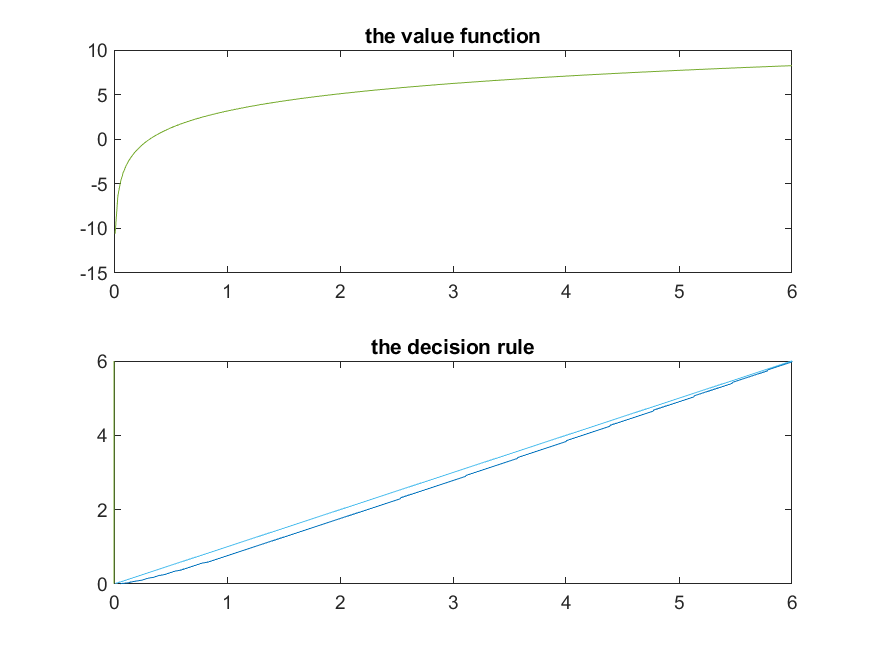
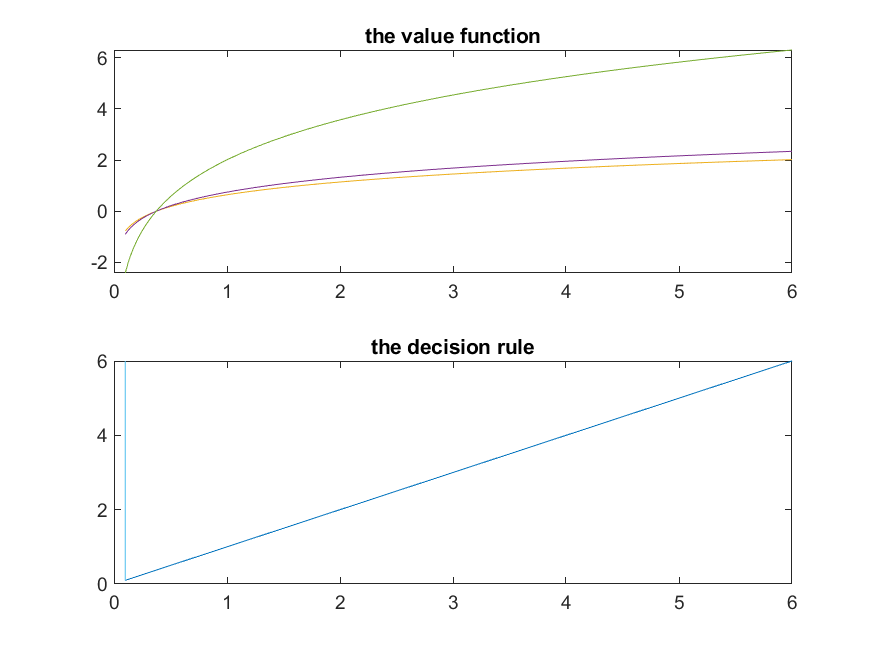
Changes to homework 2

diff --git a/Code/Kai/Homework 2/Kai_Jensen_HW2_Q3.m b/Code/Kai/Homework 2/Kai_Jensen_HW2_Q3.m
@@ -1,15 +1,27 @@
-close; clear all; clc;
-%Initial parameter values
-Mu=0;
-rho=0.909;
-s=2.575; %amount of normal distribution covered
-sample_size=100;
-sigma=2;
-sigma_e=0.014;
-znum=9;
-%markov
-[zgrid,piz]=tauchen(rho,sigma_e,znum,Mu,s); 
-zgrid=exp(zgrid);
+clear; close all; clc; 
+alpha = .36;
+d = .069;
+beta = .96;
+sigma = 2;
+A = 1;
+Kl = .01; 
+Kh = 6; 
+Knum = 250; 
+Kgrid = linspace(Kl, Kh, Knum); 
+rho = .859;
+sigma_e = .014;
+Nz = 5;
+mu = 0;
+s = 2.575;
+[zgrid, piz] = tauchen(rho, sigma_e, Nz, mu, s); 
+zgrid = exp(zgrid);
+Tv = zeros(Knum, Nz);
+v = Tv;
+G = Tv;
+precision = 1e-5;
+distance = 2 * precision;
+iteration = 0;
+
 %allocate memory for CDF Random Draw
 index=5;% starting state(index) for CDF Random Draw
 x_sim=zgrid(index);
@@ -29,3 +41,40 @@ end
 
 %plot
 plot(x_sim);
+
+while distance > precision
+    ev = zeros(Knum, Nz);
+    c0 = zeros(Knum, Nz, Knum);
+    Tv0 = c0;
+    
+    for i=1:Knum
+        for iz =1:Nz
+            for jz =1:Nz
+                ev(i, iz)= ev(i,iz)+piz(iz,jz)*v(i,jz);
+            end
+        end
+    end
+    for i = 1:Knum
+         for iz=1:Nz
+            for j = 1:Knum
+                c0(i,iz,j) =  max(zgrid(iz)*(Kgrid(i))^alpha + (1-d)*Kgrid(i) - Kgrid(j), 1e-5);  % c cannot be negative
+                Tv0(i,j) = (c0(i,j)^(1-sigma)-1)/(1-sigma)+ beta*v(j); %correct utility function  
+                %Tv0(i,iz,j)=log(c0(i,iz,j))+beta*ev(i,iz);
+            end
+        end
+    end
+
+    for i = 1:Knum
+        for iz = 1:Nz 
+        [val,loc] = max(Tv0(i,iz,:)); 
+        Tv(i,iz) = val; 
+        G(i,iz) = Kgrid(loc); 
+        end
+    end
+    
+    distance = max(max(max(abs(Tv - v)))); 
+    v = Tv; 
+    s = sprintf( ' iteration %4d ||Tv - V|| = %8.6f ', iteration, distance); 
+    disp(s)
+    iteration = iteration + 1;    
+end 

diff --git a/Code/Kai/Homework 2/classnotes.m b/Code/Kai/Homework 2/classnotes.m
@@ -13,25 +13,18 @@ sigma_e = .014;
 Nz = 5;
 mu = 0;
 s = 2.575;
+[zgrid, piz] = tauchen(rho, sigma_e, Nz, mu, s); 
+zgrid = exp(zgrid);
 Tv = zeros(Knum, Nz);
 v = Tv;
 G = Tv;
 precision = 1e-5;
 distance = 2 * precision;
 iteration = 0;
-[zgrid, piz] = tauchen(rho, sigma_e, Nz, mu, s); 
-zgrid = exp(zgrid);
-
-    for i = 1:Knum
-         for iz=1:Nz
-            for j = 1:Knum
-                c0(i,iz,j) =  max(zgrid(iz)*(Kgrid(i))^alpha + (1-d)*Kgrid(i) - Kgrid(j), 1e-5);
-            end
-        end
-    end
 
 while distance > precision
     ev = zeros(Knum, Nz);
+    c0 = zeros(Knum, Nz, Knum);
     Tv0 = c0;
     
     for i=1:Knum
@@ -44,16 +37,18 @@ while distance > precision
     for i = 1:Knum
          for iz=1:Nz
             for j = 1:Knum
-                Tv0(i,j) = (c0(i,iz,j)^(1-sigma)-1)/(1-sigma)+ beta*ev(i,iz);
+                c0(i,iz,j) =  max(zgrid(iz)*(Kgrid(i))^alpha + (1-d)*Kgrid(i) - Kgrid(j), 1e-5);  % c cannot be negative
+                Tv0(i,j) = (c0(i,j)^(1-sigma)-1)/(1-sigma)+ beta*ev(i,iz); %correct utility function  
+                %Tv0(i,iz,j)=log(c0(i,iz,j))+beta*ev(i,iz);
             end
         end
     end
 
     for i = 1:Knum
         for iz = 1:Nz 
-        [val,loc] = max(Tv0(i,iz,:)); 
-        Tv(i,iz) = val; 
-        G(i,iz) = Kgrid(loc); 
+       [val,loc] = max(Tv0(i,iz,:)); 
+       Tv(i,iz) = val; 
+       G(i,iz) = Kgrid(loc); 
         end
     end
     
@@ -63,4 +58,3 @@ while distance > precision
     disp(s)
     iteration = iteration + 1;    
 end 
-

diff --git a/Code/Kai/Homework 2/Kai_Jensen_HW2_Q1.m b/Code/Kai/Homework 2/Kai_Jensen_HW2_Q1.m
@@ -8,7 +8,8 @@ sigma=2;
 sigma_e=0.014;
 znum=9;
 
-[zgrid,piz]=tauchen(rho,sigma_e,znum,Mu,s);  
+[zgrid,piz]=tauchen(rho,sigma_e,znum,Mu,s); 
+zgrid=exp(zgrid);
 %allocate memory for CDF Random Draw
 index=5;% starting state(index) for CDF Random Draw
 x_sim=zgrid(index);
